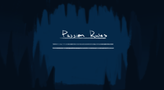
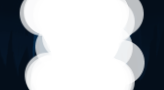
Working on Scroll Animations

diff --git a/js/section5.js b/js/section5.js
@@ -3,11 +3,15 @@ sectionHeights = [ 0, 0, 0, 0, 0, 0, 0 ];
 sumFirstTwo = 0;
 changeHeight = 0;
 secTwoTrigger = true;
+halfScreen = 0;
+secThreeTreshold = 0;
 secOneTextVisible = true;
 SetVariables = () => {
 	sections = document.getElementsByClassName('section');
 	sectionHeights = Array.prototype.map.call(sections, (x) => x.offsetHeight);
 	sumFirstTwo = sectionHeights[0] + sectionHeights[1];
+	halfScreen = window.innerHeight / 2;
+	secThreeTreshold = window.innerHeight * 0.27;
 	changeHeight = sectionHeights.slice(0, 4).reduce((sum, current) => sum + current);
 	// document.getElementById('height').innerText = `h:${window.innerHeight}px`;
 	// document.getElementById('width').innerText = `w:${window.innerWidth}px`;
@@ -58,6 +62,17 @@ window.addEventListener('scroll', () => {
 		document.getElementById(`mainNav`).style.color = '#000';
 		document.getElementsByClassName(`sec-5-background`)[0].style.backgroundColor = '#fff';
 		document.getElementsByClassName(`sec-6-background`)[0].style.backgroundColor = '#fff';
+	}
+	if (window.scrollY + this.halfScreen > this.sumFirstTwo + secThreeTreshold) {
+		document.getElementsByClassName('s3-title')[0].style.top = `${secThreeTreshold}px`;
+	} else if (window.scrollY + this.halfScreen < this.sumFirstTwo) {
+		document.getElementsByClassName('s3-title')[0].style.visibility = 'hidden';
+		document.getElementsByClassName('s3-title')[0].style.top = `0`;
+	} else {
+		document.getElementsByClassName('s3-title')[0].style.visibility = 'visible';
+		document.getElementsByClassName('s3-title')[0].style.top = `${this.halfScreen +
+			window.scrollY -
+			this.sumFirstTwo}px`;
 	}
 });
 // function setColor(x) {

diff --git a/sass/homepage/main.css b/sass/homepage/main.css
@@ -492,6 +492,40 @@ body {
   font-family: "Montserrat";
 }
 
+.s3-li {
+  position: absolute;
+  top: 0;
+  left: 50%;
+  -webkit-transform: translateX(-50%);
+          transform: translateX(-50%);
+  width: 100%;
+  height: 100%;
+}
+
+.s3-l1 {
+  z-index: 30;
+}
+
+.s3-l2 {
+  z-index: 10;
+}
+
+.s3-title {
+  top: 27vh;
+  left: 10vw;
+  width: 80vw;
+  position: absolute;
+}
+
+.s3-title-text {
+  font-family: "Raleway";
+  font-size: 5rem;
+  font-weight: 900;
+  word-spacing: .5rem;
+  letter-spacing: .4rem;
+  text-align: center;
+}
+
 .footer-trans {
   width: 150vw;
   bottom: 100%;
@@ -608,8 +642,8 @@ body {
 
 .sec-5 {
   z-index: 5;
-  -webkit-transition: color .5s;
-  transition: color .5s;
+  -webkit-transition: color .25s;
+  transition: color .25s;
 }
 
 .sec-5-body {
@@ -622,8 +656,8 @@ body {
 
 .sec-5-background {
   background-color: #010e1b;
-  -webkit-transition: background .5s;
-  transition: background .5s;
+  -webkit-transition: background .25s;
+  transition: background .25s;
 }
 
 .sec-6 {

diff --git a/index.html b/index.html
@@ -94,9 +94,14 @@
             </div>
         </section>
         <section class="body-child section sec-3">
-            <div class="section-body sec-3-body"><div class="intro">
-                <img src="images/section-one/rough-img.png" alt="" class="sec-3-rough">
-            </div>
+            
+            <div class="s3-l">
+                
+                <img src="images/section-one/rough-img.png" alt="" class="s3-li s3-l2">
+                
+                <div class="s3-title"><h1 class="s3-title-text">PASSION RULES</h1></div>
+                <img src="images/section-one/rough-top.png" alt="" class="s3-li s3-l1">
+            
             </div>
             <div class="section-background sec-3-background">
 

diff --git a/sass/homepage/sections/_sectionthree.scss b/sass/homepage/sections/_sectionthree.scss
@@ -1,0 +1,33 @@
+.s3 {
+	&-l {
+		&i {
+			position: absolute;
+			top: 0;
+			left: 50%;
+			transform: translateX(-50%);
+			width: 100%;
+			height: 100%;
+		}
+
+		&1 {
+			z-index: 30;
+		}
+		&2 {
+			z-index: 10;
+		}
+	}
+	&-title {
+		top: 27vh;
+		left: 10vw;
+		width: 80vw;
+		position: absolute;
+		&-text {
+			font-family: "Raleway";
+			font-size: 5rem;
+			font-weight: 900;
+			word-spacing: .5rem;
+			letter-spacing: .4rem;
+			text-align: center;
+		}
+	}
+}

diff --git a/sass/homepage/sections/_overall.scss b/sass/homepage/sections/_overall.scss
@@ -52,7 +52,7 @@
 	}
 	&-5 {
 		z-index: 5;
-		transition: color .5s;
+		transition: color .25s;
 		&-body {
 			padding: 15rem 0;
 			font-size: 2rem;
@@ -60,7 +60,7 @@
 		}
 		&-background {
 			background-color: $color-main;
-			transition: background .5s;
+			transition: background .25s;
 		}
 	}
 	&-6 {

diff --git a/sass/homepage/main.scss b/sass/homepage/main.scss
@@ -37,5 +37,6 @@ body {
 @import "components/header";
 @import "sections/sectiontwo";
 @import "sections/sectionone";
+@import "sections/sectionthree";
 @import "sections/footer";
 @import "sections/overall";
